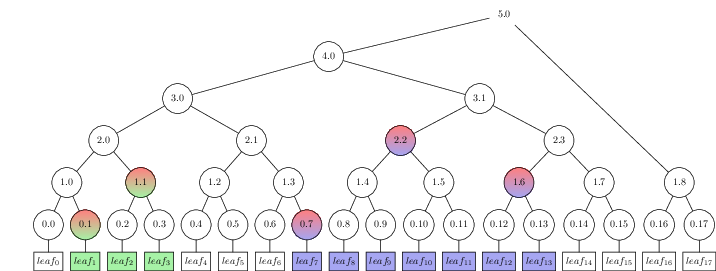
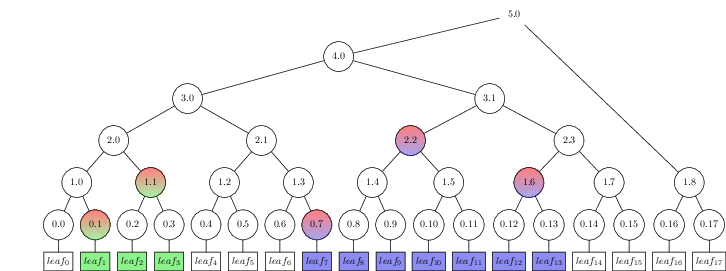
Make range target leaves darker to match inclusion leaves

diff --git a/docs/merkletree/treetex/main.go b/docs/merkletree/treetex/main.go
@@ -51,6 +51,9 @@ const (
 \definecolor{target}{rgb}{0.5,0.5,0.9}
 \definecolor{target_path}{rgb}{0.7,0.7,0.9}
 \definecolor{mega}{rgb}{0.9,0.9,0.9}
+\definecolor{target0}{rgb}{0.1,0.9,0.1}
+\definecolor{target1}{rgb}{0.1,0.1,0.9}
+\definecolor{target2}{rgb}{0.9,0.1,0.9}
 \definecolor{range0}{rgb}{0.3,0.9,0.3}
 \definecolor{range1}{rgb}{0.3,0.3,0.9}
 \definecolor{range2}{rgb}{0.9,0.3,0.9}
@@ -135,12 +138,12 @@ func (n nodeInfo) String() string {
 		}
 	} else /* !proof */ {
 		if l := len(n.rangeIndices); l == 1 {
-			fill = fmt.Sprintf("range%d!50", n.rangeIndices[0])
+			fill = fmt.Sprintf("target%d!50", n.rangeIndices[0])
 		} else if l > 1 {
 			// Otherwise, we need to be a bit cleverer, and use the shading feature.
 			for i, ri := range n.rangeIndices {
 				pos := []string{"bottom", "middle"}[i]
-				attr = append(attr, fmt.Sprintf("%s color=range%d!50", pos, ri))
+				attr = append(attr, fmt.Sprintf("%s color=target%d!50", pos, ri))
 			}
 		}
 	}
